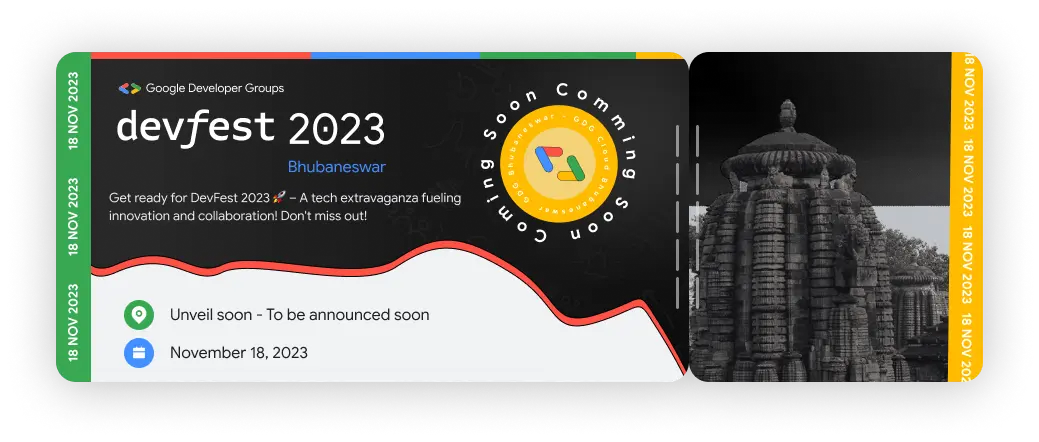
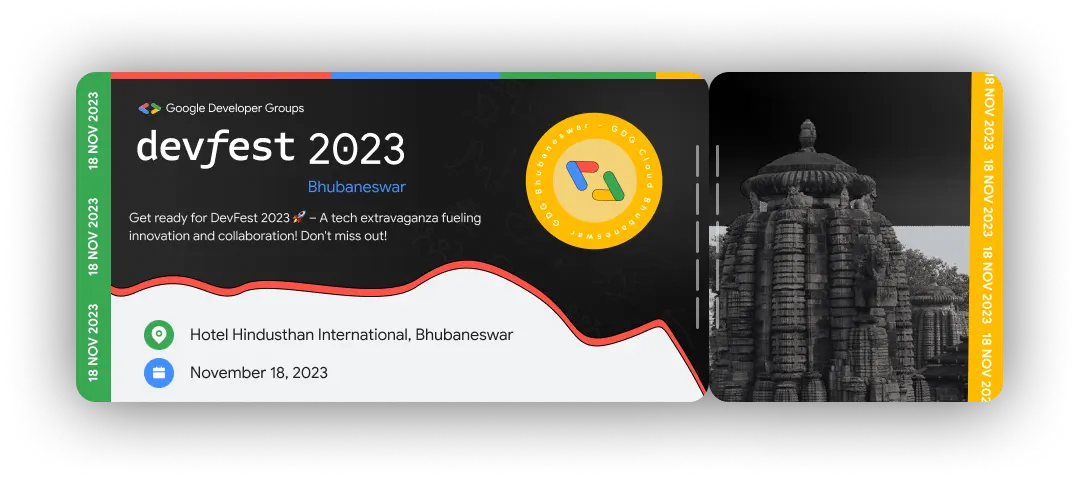
Venue location update and small bug fixed

Changed region(s): [[0.0308, 0.1176, 0.9548, 0.8824]]

diff --git a/src/Layouts/Hero.jsx b/src/Layouts/Hero.jsx
@@ -6,13 +6,9 @@ import data from "../Data/data.json";
 import { Link } from "react-router-dom";
 import AfterMovie from "./AfterMovie";
 import OverlayBg from "../Components/OverlayBg";
-import { useDispatch, useSelector } from "react-redux";
-import { setPopModal } from "../Store/Slices/MainSlice";
 import { Router } from "../router/appRouter";
 
 const Hero = () => {
-  const popModal = useSelector((state) => state.Main.popModal);
-  const dispatch = useDispatch();
   return (
     <div id="hero">
       <OverlayBg />
@@ -40,7 +36,9 @@ const Hero = () => {
                 <div className="ico">
                   <FaMap />
                 </div>
-                <Link to={data.venueData.link}>{data.venueData.text}</Link>
+                <a href={data.venueData.link} target="_blank">
+                  {data.venueData.text}
+                </a>
               </div>
               <div className="date">
                 <div className="ico">

diff --git a/src/Layouts/Header.jsx b/src/Layouts/Header.jsx
@@ -3,7 +3,7 @@ import Wrapper from "../Components/Wrapper";
 import PrimaryBtn from "../Components/PrimaryBtn";
 import SecondaryBtn from "../Components/SecondaryBtn";
 import data from "../Data/data.json";
-import { NavLink, useNavigate } from "react-router-dom";
+import { Link, NavLink, useNavigate } from "react-router-dom";
 import { gsap } from "gsap";
 import { useDispatch, useSelector } from "react-redux";
 import {
@@ -112,9 +112,9 @@ const Header = () => {
     <header id="header">
       <Wrapper>
         <div id="header-container">
-          <div className="logo">
+          <Link to={Router.home} className="logo">
             <img src={data.Header.logo} alt="DevFest Bhubaneswar 2023 logo" />
-          </div>
+          </Link>
           <div id="navmenu">
             <div id="navmenu-container">
               <div id="navlinks">

diff --git a/src/Pages/Home.jsx b/src/Pages/Home.jsx
@@ -5,6 +5,7 @@ import Ticket from "../Layouts/Ticket";
 import PopupModalOld from "../Components/PopupModalOld";
 import { useSelector } from "react-redux";
 import Highlights from "../Layouts/Highlights";
+import Venue from "../Layouts/Venue";
 
 const Home = () => {
   const popModal = useSelector((state) => state.Main.popModal);
@@ -18,6 +19,7 @@ const Home = () => {
       <LineBanner color={"var(--yellow)"} classN={"banner-2"} />
       <Ticket />
       <LineBanner color={"var(--green)"} classN={"banner-3"} />
+      <Venue />
       <Highlights />
     </>
   );

diff --git a/src/Layouts/DashboardTicket.jsx b/src/Layouts/DashboardTicket.jsx
@@ -122,7 +122,10 @@ const DashboardTicket = ({ paymentStatus, stock }) => {
               </div>
               <div className="DashboardTicket-container-details-item">
                 <span>Event Venue</span>
-                <h4>{data.venueData.text}</h4>
+                <h4>{data.venueData.text}</h4>-{" "}
+                <a href={data.venueData.link} target="_blank">
+                  Map Link
+                </a>
               </div>
             </div>
           </div>
